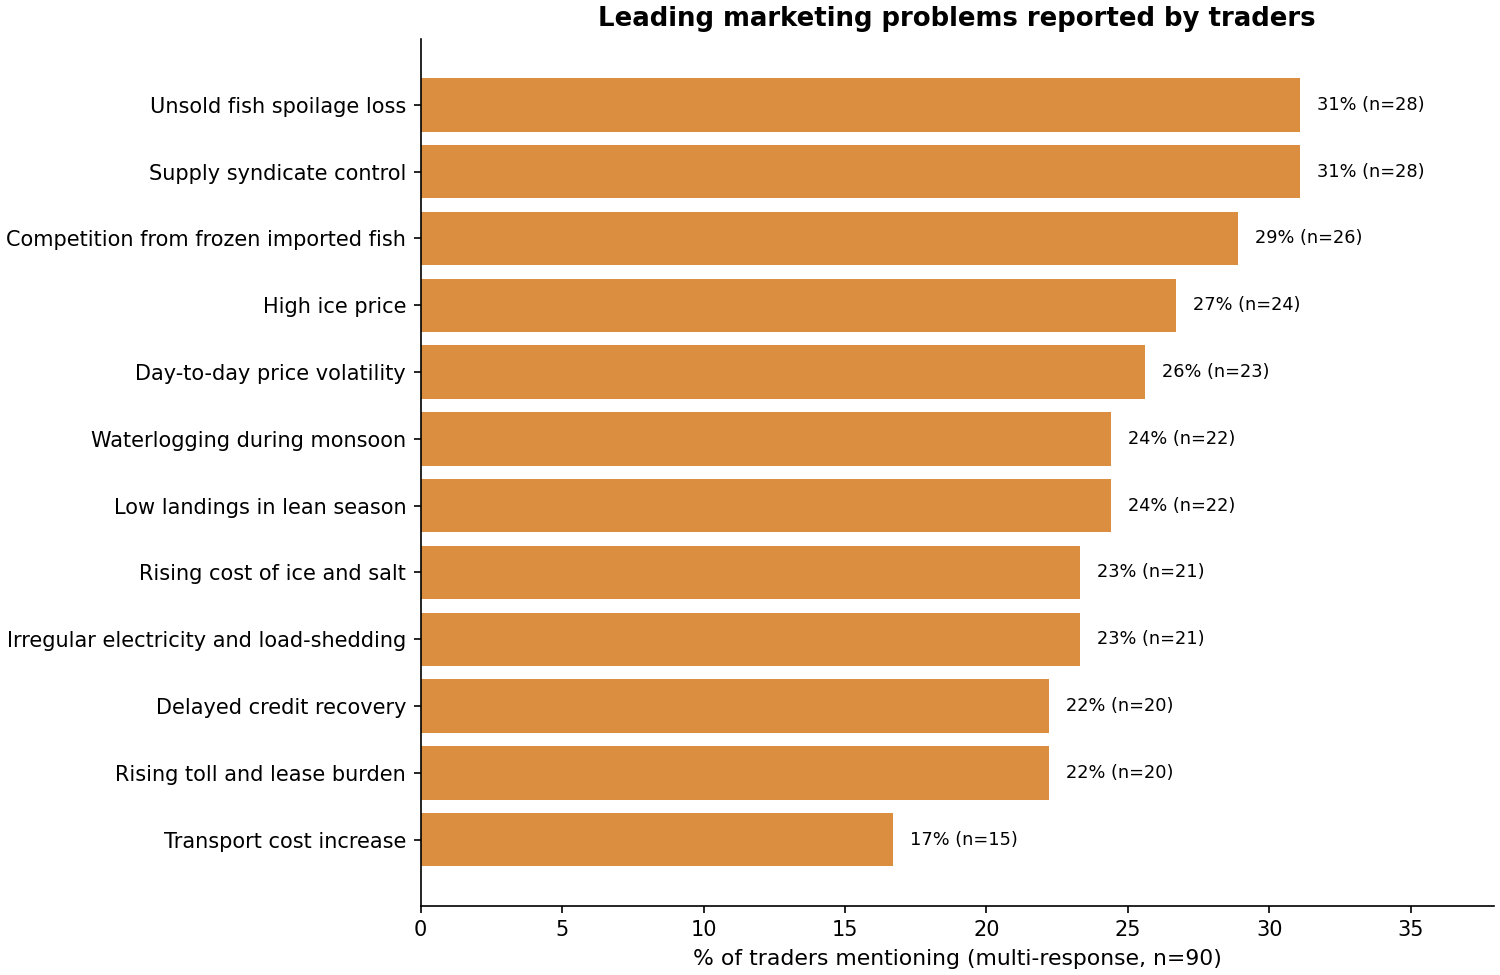
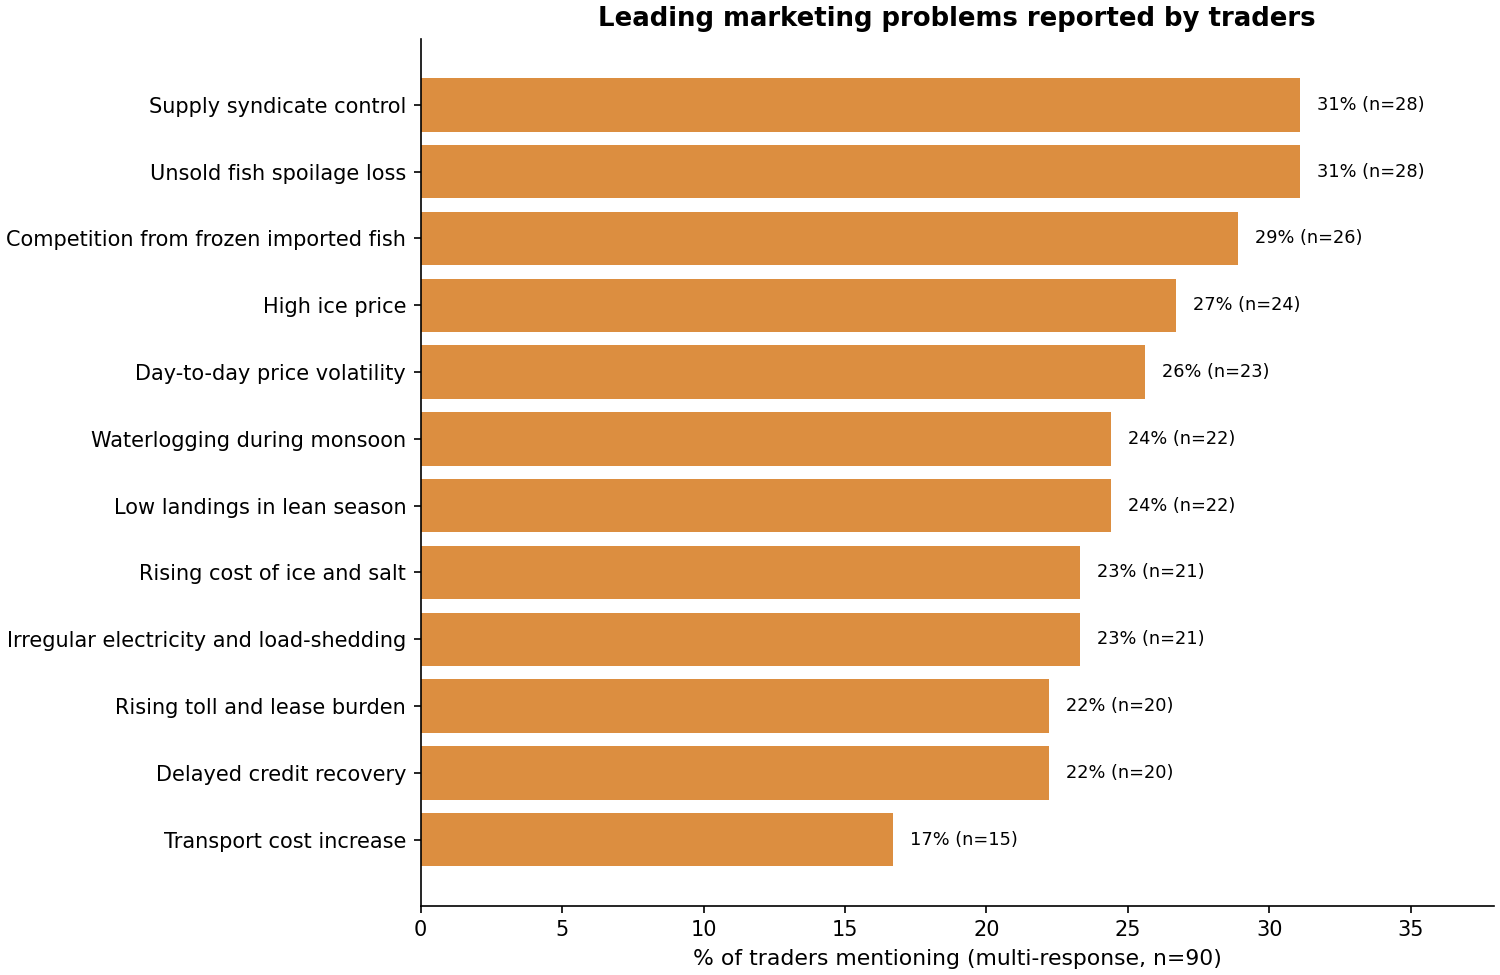
Post-merge consistency: deterministic tie ordering in T6 problems table (was hash-random set order); regenerate all outputs from merged code

diff --git a/scripts/run_analysis.py b/scripts/run_analysis.py
@@ -526,7 +526,9 @@ def t6_problems(d):
                      "Bepari_n": b, "Bepari_pct": round(100.0 * b / nB, 1),
                      "Retailer_n": rr, "Retailer_pct": round(100.0 * rr / nR, 1),
                      "Total_n": tot, "Total_pct": round(100.0 * tot / (nA + nB + nR), 1)})
-    rows.sort(key=lambda x: -x["Total_n"])
+    # deterministic ordering: count desc, then problem name (set iteration
+    # order is hash-random between runs, which previously shuffled ties)
+    rows.sort(key=lambda x: (-x["Total_n"], x["Problem"]))
     df = pd.DataFrame(rows)
     note = "% = share of that actor's respondents mentioning the problem in any of the 3 slots (multi-response)."
     return "T6_Problems", "Table 6. Marketing problems reported by traders", df, note
